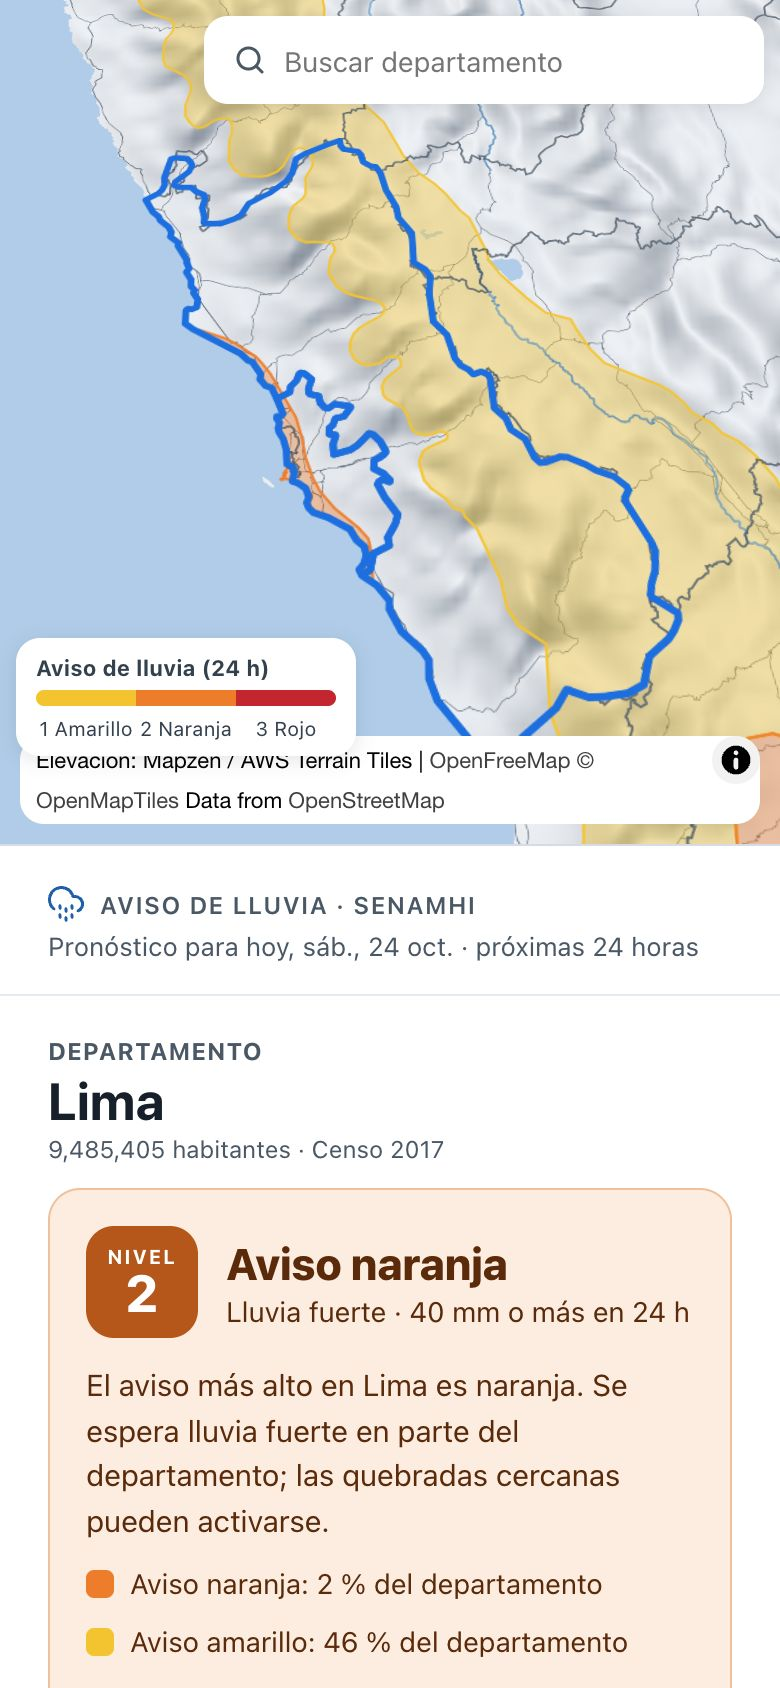
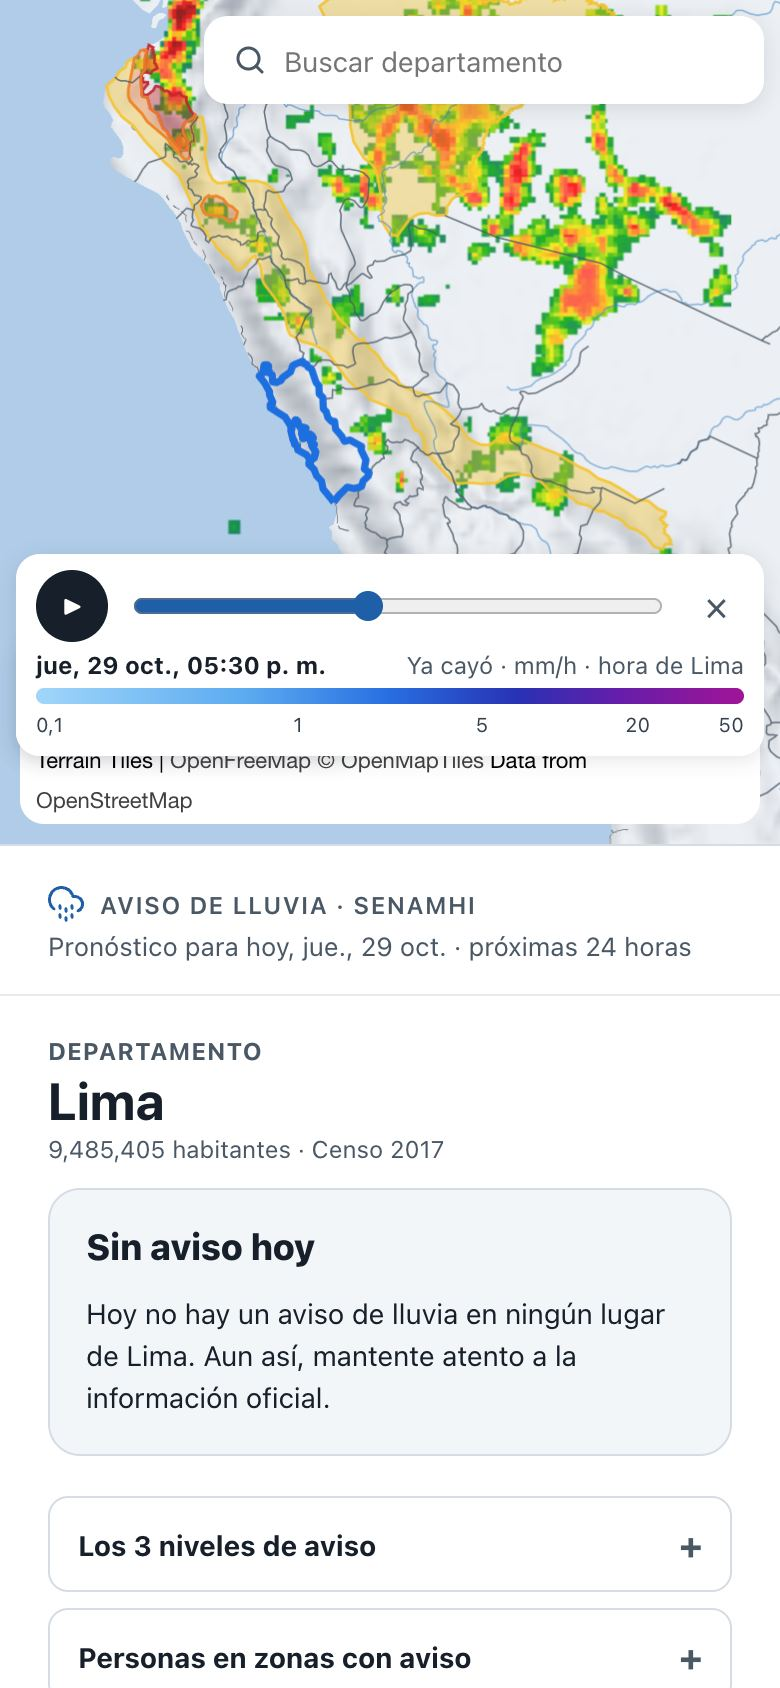
docs: explain automatic publishing and pull request previews (#5)
* docs: explain automatic publishing and pull request previews

* build: enable Cloudflare previews for pull requests

* docs: show the site's features with screenshots in the README

diff --git a/README.md b/README.md
@@ -9,15 +9,44 @@
 
 # Perú Alerta Lluvia
 
+[![Sitio](https://img.shields.io/badge/sitio-alerta.illapalabs.org-1F5FA8.svg)](https://alerta.illapalabs.org)
 [![Licencia: AGPL v3](https://img.shields.io/badge/licencia-AGPL%20v3-blue.svg)](LICENSE)
+
+**Sitio: [alerta.illapalabs.org](https://alerta.illapalabs.org)**
 
 Mapa de las zonas del Perú con aviso de lluvias fuertes, con la información del SENAMHI. Muestra el aviso por departamento, provincia y distrito, cuánta gente vive en las zonas con aviso de activación de quebradas, la lluvia de las últimas horas y el pronóstico.
 
 > **No es un sitio oficial.** La fuente de los avisos es el [SENAMHI](https://www.senamhi.gob.pe). Ante una emergencia llama al 115 (INDECI) o al 116 (Bomberos).
 
-![Aviso de lluvia en Lima: panel con el nivel y la lista de distritos, y el mapa con el relieve](docs/capturas/inicio.jpg)
+![El Perú con las zonas del aviso de lluvia del SENAMHI y la lluvia de las últimas horas sobre el mapa con relieve](docs/capturas/inicio.jpg)
 
 Un proyecto de [Illapa Labs](https://github.com/Illapa-Labs): proyecto comunitario de código abierto, sin anuncios y sin fines de lucro.
+
+## Qué muestra
+
+### El aviso de tu departamento
+
+Elige un departamento en el buscador o tocándolo en el mapa: el panel dice el nivel más alto del aviso, qué parte del departamento cubre cada nivel, qué hacer, y la lista de distritos con aviso con su población y cuánta gente vive en zonas donde pueden activarse las quebradas.
+
+![Piura con aviso rojo: el nivel, qué parte del departamento cubre cada nivel, qué hacer y los distritos con aviso](docs/capturas/departamento.jpg)
+
+### Hasta tu distrito
+
+Tocando el mapa se baja de a un escalón: del departamento a la provincia, y de la provincia al distrito. Cada distrito muestra su aviso y qué hacer, y las migas de arriba llevan de vuelta.
+
+![Tambo Grande (Piura) elegido: su aviso, qué hacer y los otros distritos de la provincia](docs/capturas/distrito.jpg)
+
+### La lluvia: lo que cayó y lo que viene
+
+Una barra recorre las últimas 24 horas de lluvia vista por satélite (NASA) y las próximas 24 del pronóstico (Open-Meteo), hora por hora, debajo de las zonas del aviso.
+
+![La lluvia pronosticada para las próximas horas sobre las zonas del aviso](docs/capturas/lluvia.jpg)
+
+### En el celular
+
+Pensada para leerse rápido y con conexión lenta: el panel se muestra antes que el mapa, que es lo más pesado.
+
+<p align="center"><img alt="La web en un celular: el mapa arriba y el aviso de Lima abajo" src="docs/capturas/celular.jpg" width="300"></p>
 
 ## Estado y hoja de ruta
 
@@ -46,7 +75,9 @@ La dirección de la API está en `.env.development` (en local) y `.env.productio
 
 ## Publicar
 
-El sitio está en https://alerta.illapalabs.org: son archivos estáticos en Cloudflare (`wrangler.jsonc`), sin código en el servidor:
+El sitio está en https://alerta.illapalabs.org: son archivos estáticos en Cloudflare (`wrangler.jsonc`), sin código en el servidor.
+
+Se publica solo: Cloudflare (Workers Builds) construye y publica cada cambio que llega a `main`, y cada *pull request* recibe una dirección de vista previa, sin tocar la versión pública. Para publicar a mano, por ejemplo si Workers Builds falla:
 
 ```bash
 bun run build

diff --git a/README.en.md b/README.en.md
@@ -9,15 +9,44 @@
 
 # Perú Alerta Lluvia
 
+[![Site](https://img.shields.io/badge/site-alerta.illapalabs.org-1F5FA8.svg)](https://alerta.illapalabs.org)
 [![License: AGPL v3](https://img.shields.io/badge/license-AGPL%20v3-blue.svg)](LICENSE)
+
+**Site: [alerta.illapalabs.org](https://alerta.illapalabs.org)**
 
 A map of the areas of Peru under a heavy rain warning, built on information from SENAMHI (the national meteorology and hydrology service). It shows the warning by department, province and district, how many people live in areas with a ravine-activation warning, the rain of the last hours and the forecast.
 
 > **This is not an official site.** The source of the warnings is [SENAMHI](https://www.senamhi.gob.pe). In an emergency, call 115 (INDECI) or 116 (Fire Department) in Peru.
 
-![Rain warning for Lima: a panel with the warning level and the list of districts, and a map with terrain relief](docs/capturas/inicio.jpg)
+![Peru with SENAMHI's rain warning areas and the rain of the last hours over a terrain map](docs/capturas/inicio.jpg)
 
 A project of [Illapa Labs](https://github.com/Illapa-Labs): a community open source project, with no ads and not for profit.
+
+## What it shows
+
+### The warning for your department
+
+Pick a department in the search box or by tapping the map: the panel shows the highest warning level, how much of the department each level covers, what to do, and the districts with a warning, with their population and how many people live where ravines may activate.
+
+![Piura under a red warning: the level, how much of the department each level covers, what to do and the districts with a warning](docs/capturas/departamento.jpg)
+
+### Down to your district
+
+Tapping the map goes down one step at a time: from department to province, and from province to district. Each district shows its warning and what to do, and the breadcrumbs at the top lead back.
+
+![Tambo Grande (Piura) selected: its warning, what to do and the other districts of the province](docs/capturas/distrito.jpg)
+
+### Rain: what fell and what is coming
+
+A slider runs through the last 24 hours of rain seen by satellite (NASA) and the next 24 hours of forecast (Open-Meteo), hour by hour, under the warning areas.
+
+![The forecast rain for the next hours over the warning areas](docs/capturas/lluvia.jpg)
+
+### On a phone
+
+Made to be read quickly and on slow connections: the panel shows before the map, which is the heaviest part.
+
+<p align="center"><img alt="The site on a phone: the map on top and the warning for Lima below" src="docs/capturas/celular.jpg" width="300"></p>
 
 ## Status and roadmap
 
@@ -46,7 +75,9 @@ The API address is in `.env.development` (locally) and `.env.production` (when b
 
 ## Publishing
 
-The site is at https://alerta.illapalabs.org: static files on Cloudflare (`wrangler.jsonc`), with no server code:
+The site is at https://alerta.illapalabs.org: static files on Cloudflare (`wrangler.jsonc`), with no server code.
+
+It publishes itself: Cloudflare (Workers Builds) builds and publishes every change that reaches `main`, and every pull request gets a preview address without touching the public version. To publish by hand, for example if Workers Builds fails:
 
 ```bash
 bun run build
